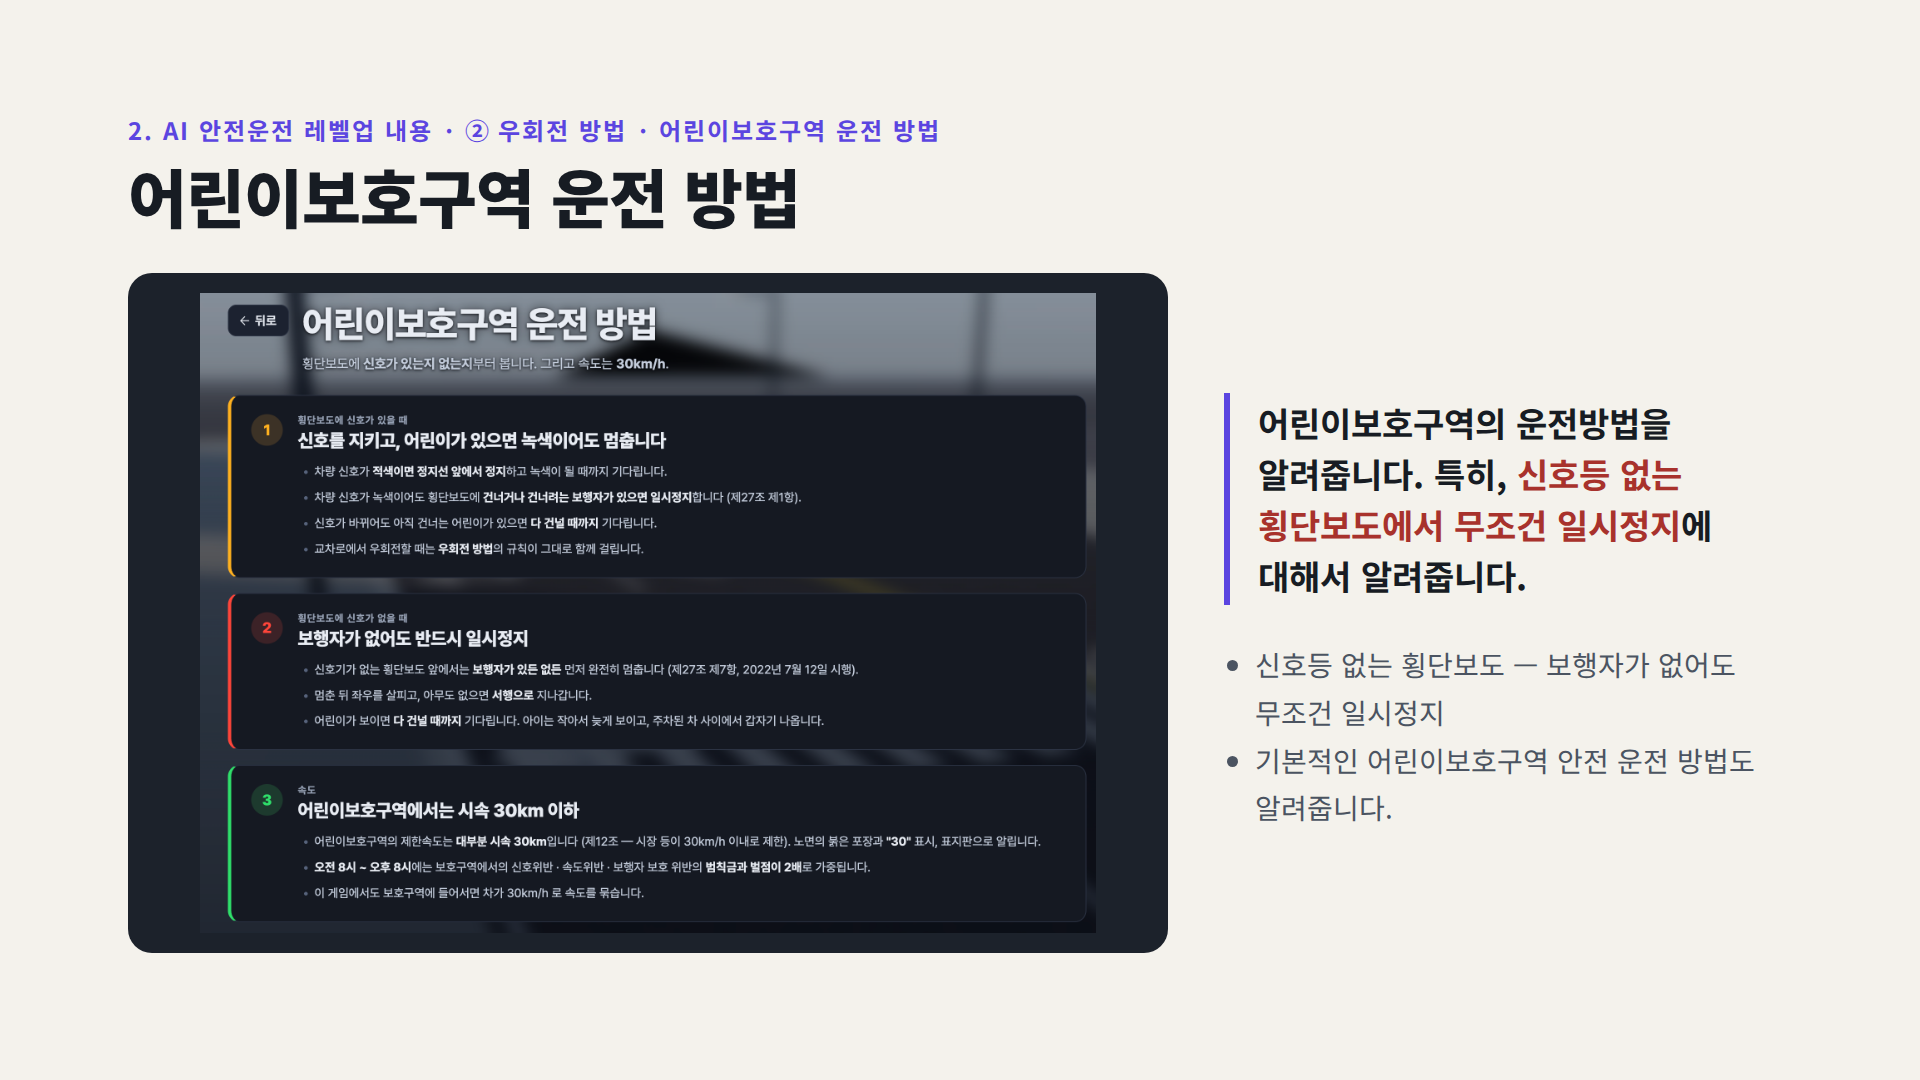
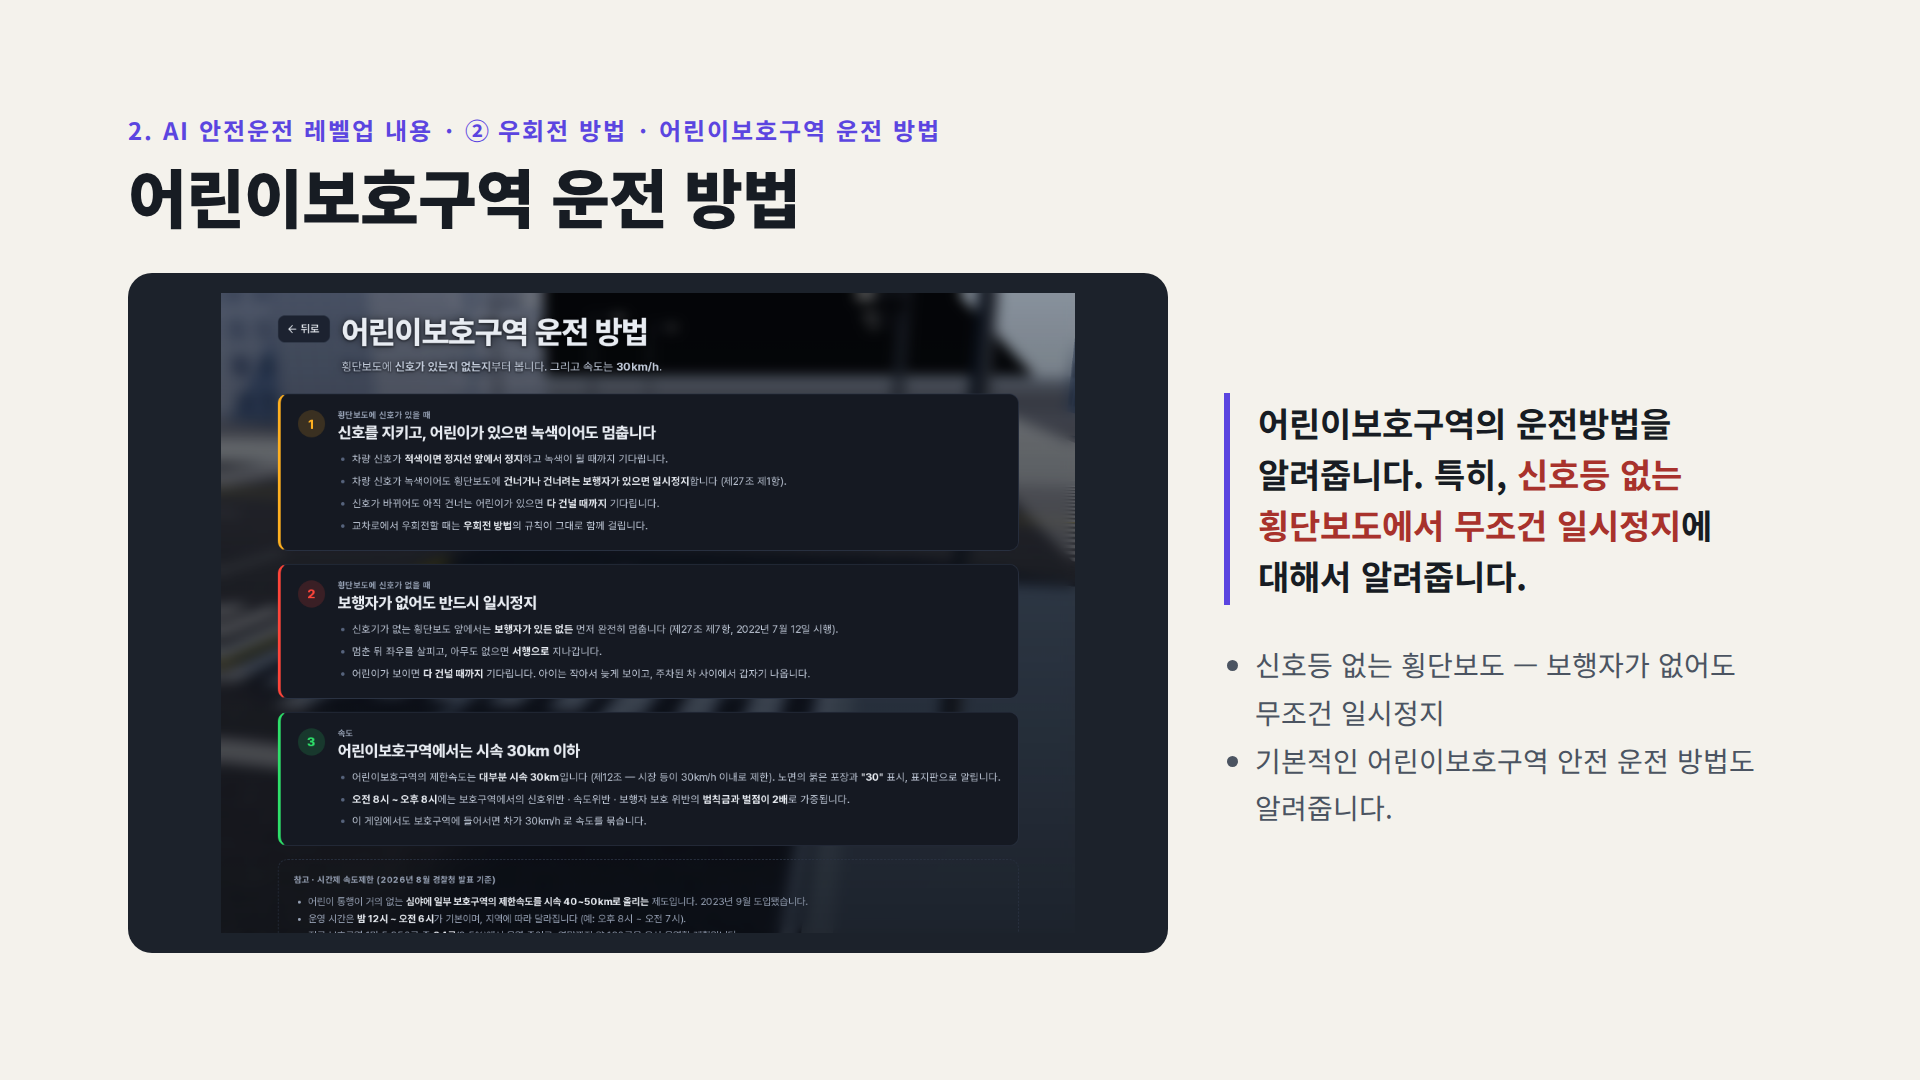
포트폴리오의 화면 캡처 열 장을 지금 화면으로 다시 찍는다
사용자 요청. 이름을 바꾸기 전에 찍은 것이라 화면 안에 옛 이름이 남아 있었고,
첫 화면은 그새 디자인도 바뀌었다.

- 첫 화면 · 습관 분석 · 맵 추천 · 주행 중 말풍선 · 보행자 느낌표 ·
  PERFECT 결과 · VIOLATION 결과 · 우회전 방법 · 어린이보호구역 운전 방법 · About
- 결과 화면 둘은 AI 코칭이 도착한 뒤에 찍는다 — '분석 중…' 인 채로 찍으면
  장표가 말하는 것(AI 코칭)이 화면에 없다.
- PERFECT 는 자율 주행이 아니라 직접 몰아서 받았다. 자율 주행 결과에는
  '오프라인 교육(자율 주행)은 AI 가 분석을 하지 않습니다' 라고 떠서, '규정을
  지킨 PERFECT 결과 화면' 이라는 장표와 어긋난다. 말풍선의 판단(#drive-coach 의
  클래스)을 읽어 서야 할 때 서는 식으로 몰았다.
- 마지막 장의 제목을 '만든 사람과 라이선스' → '만든 사람' 으로 (사용자가 정했다).
  같은 줄의 꼭지 'About · 라이선스' 도 'About' 으로 맞춘다.
- 캡처가 들어간 장표 열 장과 슬라이드쇼를 다시 뽑는다.

Changed region(s): [[0.0938, 0.2444, 0.5938, 0.8861], [0.4375, 0.5194, 0.4688, 0.55], [0.4062, 0.8556, 0.4375, 0.8861]]

diff --git a/AI_safelevelup_portfolio.html b/AI_safelevelup_portfolio.html
@@ -191,7 +191,7 @@
   .cap b { margin-right: 6px; color: var(--text); font-variant-numeric: tabular-nums; }
 
   /*
-    ── 글로 된 장표 (About · 라이선스) ──
+    ── 글로 된 장표 (만든 사람) ──
     그림 장표와 같은 1920×1080 판에 같은 모양으로 짠다. 크기는 모두 `판 픽셀 × --u` 로 적는다 —
     --u 는 장표 너비의 1/1920 이라, 틀이 얼마나 작아지든 그림 장표와 같은 비율로 줄어든다.
     글로 둔 까닭: 라이선스 파일 링크를 누를 수 있어야 한다.
@@ -315,11 +315,11 @@
       <img src="docs/slides/24-effect.png" alt="기대효과" loading="lazy" decoding="async">
     </section>
 
-    <section class="slide doc" data-chapter="마무리" data-title="About · 라이선스">
+    <section class="slide doc" data-chapter="마무리" data-title="만든 사람">
       <div class="doc-in">
         <div class="doc-head">
-          <p class="kicker">About · 라이선스</p>
-          <h2>만든 사람과 라이선스</h2>
+          <p class="kicker">About</p>
+          <h2>만든 사람</h2>
         </div>
         <div class="doc-body">
           <div class="doc-left">

diff --git a/CHANGELOG.md b/CHANGELOG.md
@@ -68,6 +68,10 @@
 
 ### 변경
 
+- **포트폴리오의 화면 캡처 열 장을 지금 화면으로 다시 찍었습니다** — 첫 화면 · 습관 분석 · 맵 추천 · 주행 중 말풍선 · 보행자 느낌표 · PERFECT 결과 · VIOLATION 결과 · 우회전 방법 · 어린이보호구역 운전 방법 · About 입니다. 이름을 바꾸기 전에 찍은 것이라 화면 안에 옛 이름이 그대로 남아 있었고, 첫 화면은 그새 디자인도 바뀌어 있었습니다.
+  - 결과 화면 둘은 **AI 코칭이 도착한 뒤**에 찍었습니다 — '분석 중…' 인 채로 찍으면 장표가 말하는 것이 화면에 없습니다. PERFECT 는 자율 주행이 아니라 **직접 몰아서** 받았습니다 (자율 주행 결과에는 "AI 가 분석을 하지 않습니다" 라고 뜹니다).
+- **포트폴리오 마지막 장의 제목을 '만든 사람과 라이선스' → '만든 사람'** 으로 줄였습니다 (사용자가 정했습니다).
+
 - **포트폴리오 넘겨 보기 페이지의 파일 이름도 바꿨습니다 — `AI_safeturn_portfolio.html` → `AI_safelevelup_portfolio.html`.** 주소가 `safelevelup.vercel.app` 이 된 마당에 파일 이름만 옛 이름이라 어색했습니다. **옛 주소로 들어와도 새 파일로 넘겨줍니다**(`vercel.json` 의 301) — 지금까지 건네 둔 링크가 끊기지 않습니다.
 
 - **이름을 바꿨습니다 — `AI 안전운전 교실` → `AI 안전운전 레벨업`** (사용자가 정했습니다). 이 교실이 실제로 하는 일이 **레벨을 올리는 것**입니다 — 나쁜 운전 습관을 고쳐야 경험치가 쌓이고 레벨이 오르고 차가 바뀝니다(L1~L10 · 마스터). '교실' 은 장소를 말할 뿐이라 무엇을 하는 곳인지가 이름에 없었습니다. 첫 화면 제목 · README 제목 그림 · 포트폴리오 장표 · About 창 · 말풍선까지 한 번에 바꿨습니다.
